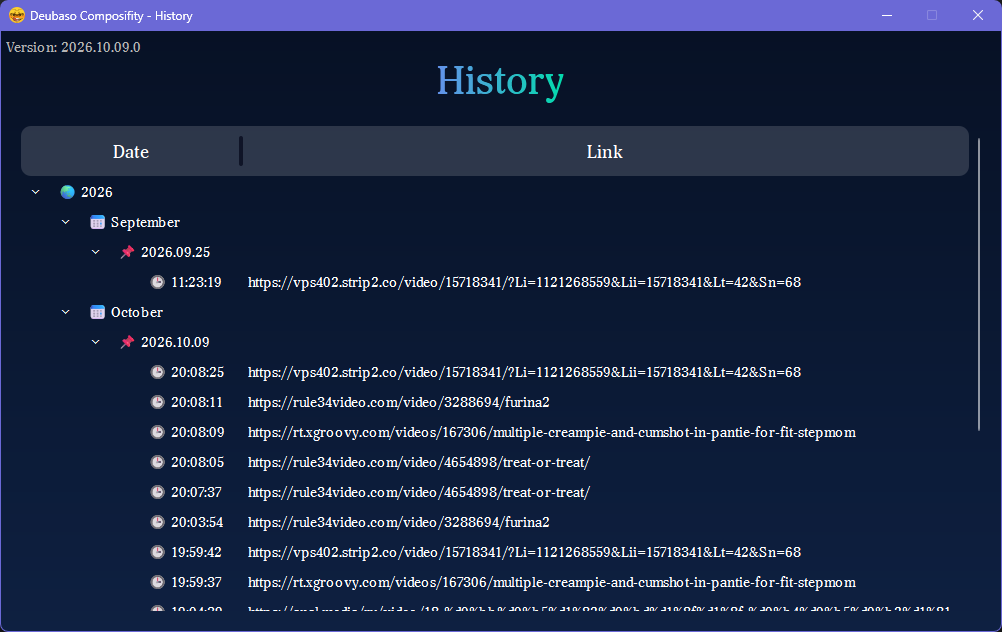
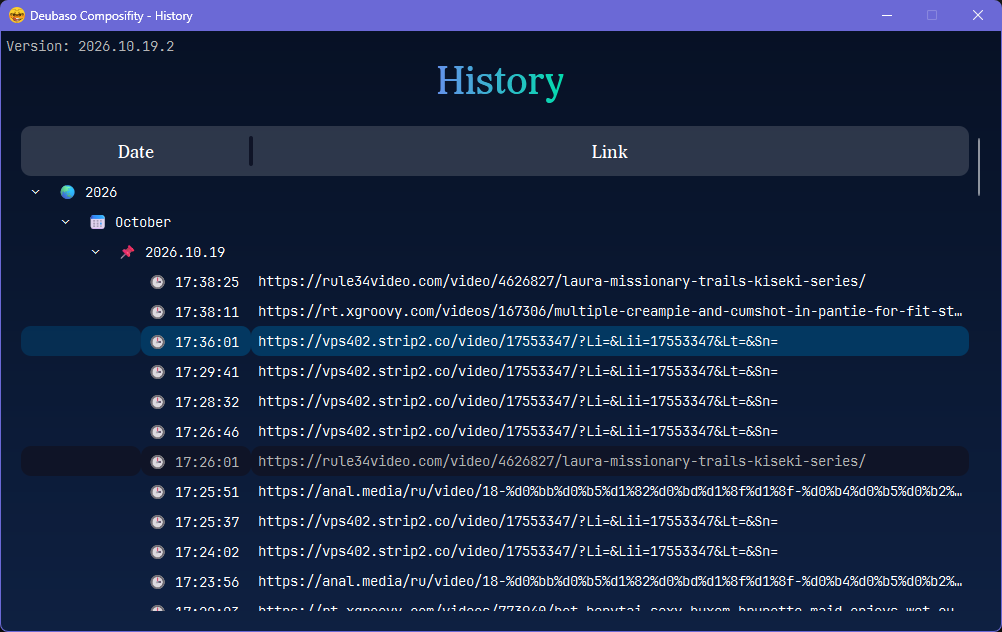
Deubaso Composifity 2026.10.19.2

diff --git a/main/modules/logger.py b/main/modules/logger.py
@@ -21,7 +21,7 @@ from config import *
 
 
 class Color_Filter(logging.Filter):
-    '''Цветовой фильтр для записи в консоли'''
+    '''Цветовой фильтр'''
     colors = {
         'INFO': '\033[90m',
         'WARNING': '\033[93m',

diff --git a/main/content/presets.py b/main/content/presets.py
@@ -23,7 +23,7 @@ from config import *
 
 # Константы
 name = 'Deubaso Composifity'
-version = '2026.10.19.1'
+version = '2026.10.19.2'
 
 size_window = (1000, 600)
 size_preview = (534, 300)
